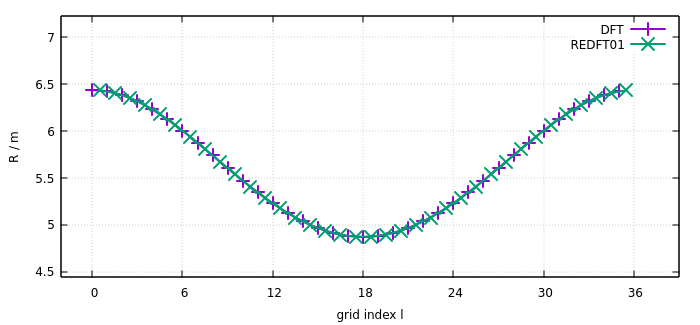
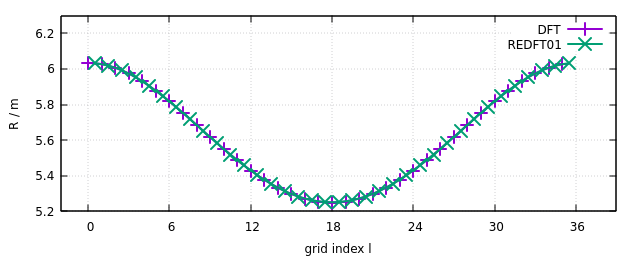
separate symmetric output from axis c2r example; update plot to use this data

Changed region(s): [[0.0298, 0.0309, 0.9843, 0.9884], [0.0, 0.3707, 0.0298, 0.5251]]

diff --git a/src/app_magn_axis.c b/src/app_magn_axis.c
@@ -14,11 +14,11 @@ void app_magn_axis(int n_zeta) {
 
     // cos-parity Fourier coefficients for magnetic axis
     double R_ax_cos[13] = { 5.63, 0.391, 0.0123, 1.21e-3, 4.89e-6, -5.12e-5,
-        -6.57e-5, 2.27e-6, -9.28e-5, -5.32e-7, 6.67e-5, 5.72e-5, 2.38e-5 };
+            -6.57e-5, 2.27e-6, -9.28e-5, -5.32e-7, 6.67e-5, 5.72e-5, 2.38e-5 };
 
     // sin-parity Fourier coefficients for magnetic axis
     double R_ax_sin[13] = { 0.0, 0.0727, 6.34e-3, 5.84e-3, 9.77e-4, 5.32e-5,
-        8.48e-5, 5.57e-5, 5.56e-5, 5.53e-6, 7.74e-7, 1.03e-5, 8.75e-6 };
+            8.48e-5, 5.57e-5, 5.56e-5, 5.53e-6, 7.74e-7, 1.03e-5, 8.75e-6 };
 
     int nCplx = n_zeta / 2 + 1;
     if (nCplx < ntor + 1) {
@@ -27,28 +27,40 @@ void app_magn_axis(int n_zeta) {
     }
 
     fftw_complex *in = fftw_alloc_complex(nCplx);
+    fftw_complex *in_symm = fftw_alloc_complex(nCplx);
     double *out = fftw_alloc_real(n_zeta);
+    double *out_symm = fftw_alloc_real(n_zeta);
 
     fftw_plan p = fftw_plan_dft_c2r_1d(n_zeta, in, out, FFTW_ESTIMATE);
+    fftw_plan p_symm = fftw_plan_dft_c2r_1d(n_zeta, in_symm, out_symm, FFTW_ESTIMATE);
 
     // copy over available Fourier coefficients
-    for (int n = 0; n <= ntor; ++n) {
-        in[n] = R_ax_cos[n] - I * R_ax_sin[n];
+    in[0] = R_ax_cos[0];
+    in_symm[0] = R_ax_cos[0];
+    for (int n = 1; n <= ntor; ++n) {
+        in[n] = 0.5 * (R_ax_cos[n] - I * R_ax_sin[n] );
+        in_symm[n] = 0.5 * R_ax_cos[n];
     }
 
     // zero out remaining input Fourier coefficients
     for (int n = ntor + 1; n < nCplx; ++n) {
         in[n] = 0.0;
+        in_symm[n] = 0.0;
     }
 
     fftw_execute(p);
+    fftw_execute(p_symm);
 
     // dump magnetic axis R geometry
     dump_1d_real("axis_R.dat", n_zeta, out);
+    dump_1d_real("axis_R_symm.dat", n_zeta, out_symm);
 
     fftw_destroy_plan(p);
+    fftw_destroy_plan(p_symm);
     fftw_free(in);
+    fftw_free(in_symm);
     fftw_free(out);
+    fftw_free(out_symm);
 }
 
 int main(int argc, char** argv) {

diff --git a/src/app_magn_axis_stellsym.c b/src/app_magn_axis_stellsym.c
@@ -14,7 +14,7 @@ void app_magn_axis(int n_zeta) {
 
     // cos-parity Fourier coefficients for R of magnetic axis
     double R_ax_cos[13] = { 5.63, 0.391, 0.0123, 1.21e-3, 4.89e-6, -5.12e-5,
-        -6.57e-5, 2.27e-6, -9.28e-5, -5.32e-7, 6.67e-5, 5.72e-5, 2.38e-5 };
+            -6.57e-5, 2.27e-6, -9.28e-5, -5.32e-7, 6.67e-5, 5.72e-5, 2.38e-5 };
 
     int nCplx = n_zeta / 2;
     if (nCplx < ntor + 1) {
@@ -30,7 +30,7 @@ void app_magn_axis(int n_zeta) {
     // copy over available Fourier coefficients
     in[0] = R_ax_cos[0];
     for (int n = 1; n <= ntor; ++n) {
-        in[n] = R_ax_cos[n];
+        in[n] = 0.5 * R_ax_cos[n];
     }
 
     // zero out remaining input Fourier coefficients
@@ -41,7 +41,7 @@ void app_magn_axis(int n_zeta) {
     fftw_execute(p);
 
     // fill second half of output array by mirroring about last entry
-    for (int n=0; n<nCplx; ++n) {
+    for (int n = 0; n < nCplx; ++n) {
         out[n_zeta - 1 - n] = out[n];
     }
 
